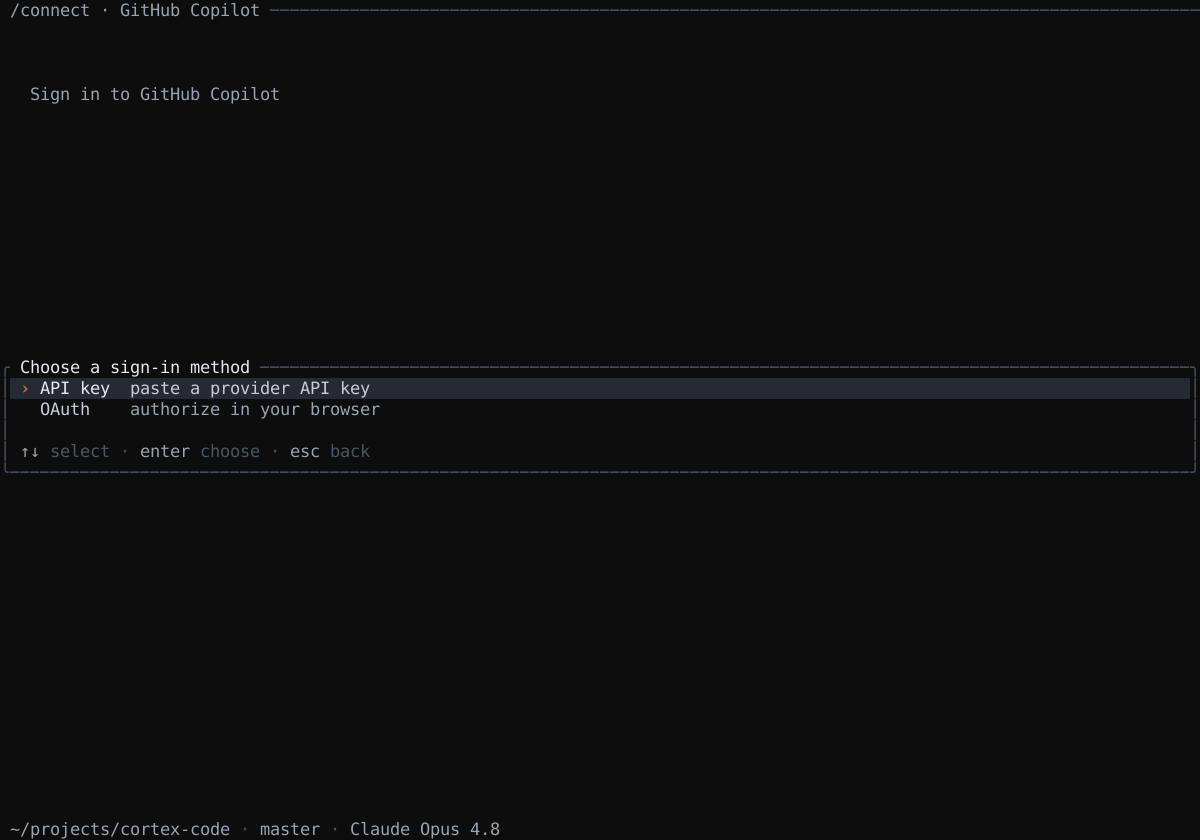
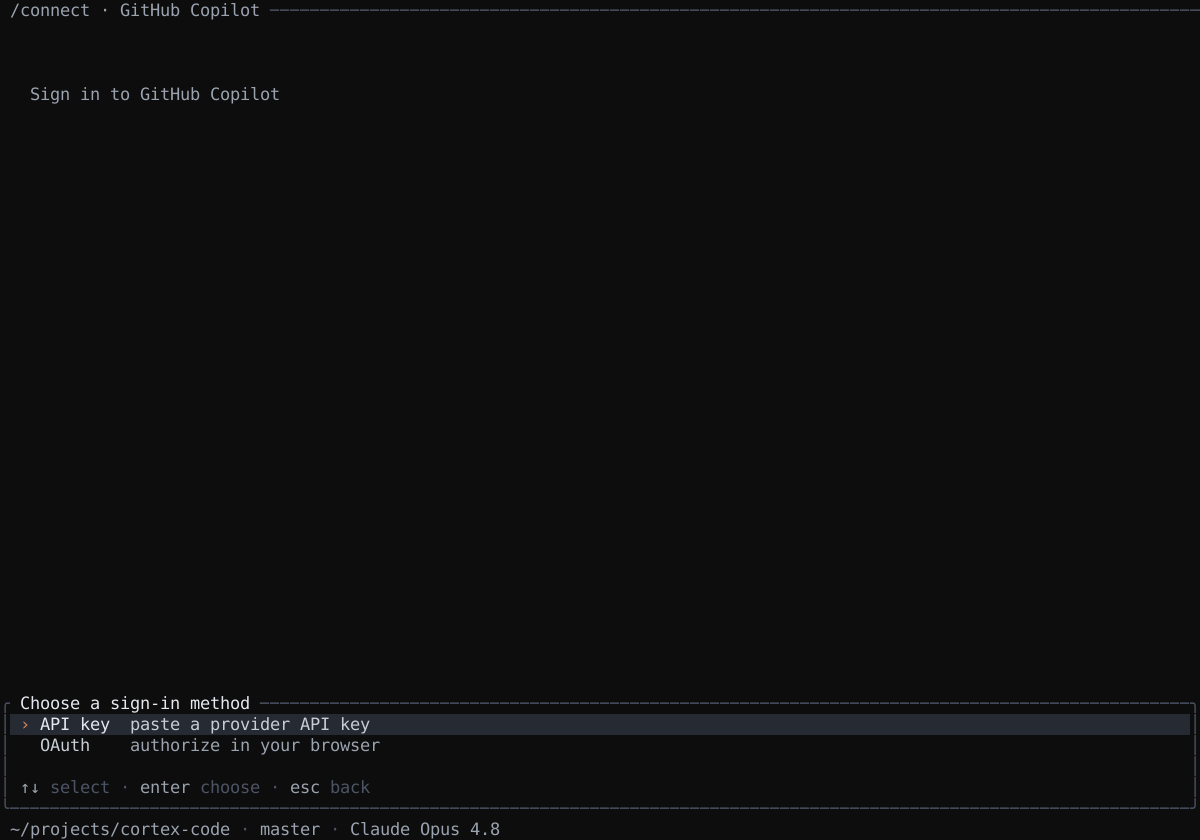
fix(mockups-v2): dock auth action cards

diff --git a/tools-throwaway/mockup-harness/src/chrome.rs b/tools-throwaway/mockup-harness/src/chrome.rs
@@ -1820,6 +1820,34 @@ pub fn cli_view(f: &mut Frame, title: &str, status: &StatusLine) -> Rect {
     rows[2]
 }
 
+/// Header-aware action frame for full-screen decision flows. It retains the
+/// standard top header and returns the remaining body plus a bottom-anchored
+/// dock. The dock ends immediately above the final statusline, so callers
+/// render their sole `card()` directly into it rather than positioning a
+/// floating panel inside the body.
+pub fn cli_action_view(
+    f: &mut Frame,
+    title: &str,
+    dock_h: u16,
+    status: &StatusLine,
+) -> (Rect, Rect) {
+    let area = f.area();
+    f.render_widget(Block::default().style(Style::default().bg(CANVAS)), area);
+    let rows = Layout::default()
+        .direction(Direction::Vertical)
+        .constraints([
+            Constraint::Length(1),      // header rule
+            Constraint::Length(1),      // spacer
+            Constraint::Min(0),         // top-aligned identity or breadcrumb body
+            Constraint::Length(dock_h), // bottom action dock
+            Constraint::Length(1),      // statusline
+        ])
+        .split(area);
+    rule_head(f, rows[0], title);
+    statusbar(f, rows[4], status);
+    (rows[2], rows[3])
+}
+
 /// Dock frame: the composer slot is REPLACED by an action dock `dock_h` rows
 /// tall (rule F-5 / N-7: decisions and pickers anchor where the user would
 /// type, never a floating centered modal). Returns `(transcript, dock)`;

diff --git a/tools-throwaway/mockup-harness/src/screens/connect_oauth.rs b/tools-throwaway/mockup-harness/src/screens/connect_oauth.rs
@@ -11,7 +11,7 @@ use crate::chrome::{self, BRIGHT, FAINT, MUTED, StatusLine, c, cb, dot, m, t};
 
 pub fn render(f: &mut Frame) {
     let status = StatusLine::default();
-    let body = chrome::cli_view(f, "/connect · GitHub Copilot", &status);
+    let (body, dock) = chrome::cli_action_view(f, "/connect · GitHub Copilot", 16, &status);
 
     f.render_widget(
         Paragraph::new(Line::from(vec![
@@ -21,10 +21,9 @@ pub fn render(f: &mut Frame) {
         Rect::new(body.x, body.y + 3, body.width, 1),
     );
 
-    let card_area = Rect::new(body.x, body.y + 8, body.width, 16);
     let inner = chrome::card(
         f,
-        card_area,
+        dock,
         "Authorize device",
         &[("o", "open"), ("y", "copy code"), ("esc", "cancel")],
     );

diff --git a/tools-throwaway/mockup-harness/src/screens/connect_apikey.rs b/tools-throwaway/mockup-harness/src/screens/connect_apikey.rs
@@ -11,7 +11,7 @@ use crate::chrome::{self, ACCENT, FAINT, MUTED, StatusLine, TXT, c, dot, m, t};
 
 pub fn render(f: &mut Frame) {
     let status = StatusLine::default();
-    let body = chrome::cli_view(f, "/connect · Anthropic", &status);
+    let (body, dock) = chrome::cli_action_view(f, "/connect · Anthropic", 13, &status);
 
     f.render_widget(
         Paragraph::new(Line::from(vec![
@@ -21,10 +21,9 @@ pub fn render(f: &mut Frame) {
         Rect::new(body.x, body.y + 3, body.width, 1),
     );
 
-    let card_area = Rect::new(body.x, body.y + 9, body.width, 13);
     let inner = chrome::card(
         f,
-        card_area,
+        dock,
         "Add API key",
         &[
             ("ctrl+v", "paste key from clipboard"),

diff --git a/tools-throwaway/mockup-harness/src/screens/connect_method.rs b/tools-throwaway/mockup-harness/src/screens/connect_method.rs
@@ -16,7 +16,7 @@ const METHODS: &[(&str, &str, &str)] = &[
 
 pub fn render(f: &mut Frame) {
     let status = StatusLine::default();
-    let body = chrome::cli_view(f, "/connect · GitHub Copilot", &status);
+    let (body, dock) = chrome::cli_action_view(f, "/connect · GitHub Copilot", 6, &status);
 
     f.render_widget(
         Paragraph::new(Line::from(vec![
@@ -26,10 +26,9 @@ pub fn render(f: &mut Frame) {
         Rect::new(body.x, body.y + 2, body.width, 1),
     );
 
-    let card_area = Rect::new(body.x, body.y + 15, body.width, 6);
     let inner = chrome::card(
         f,
-        card_area,
+        dock,
         "Choose a sign-in method",
         &[("↑↓", "select"), ("enter", "choose"), ("esc", "back")],
     );

diff --git a/tools-throwaway/mockup-harness/src/screens/connect_disconnect.rs b/tools-throwaway/mockup-harness/src/screens/connect_disconnect.rs
@@ -11,7 +11,7 @@ use crate::chrome::{self, StatusLine, m, t};
 
 pub fn render(f: &mut Frame) {
     let status = StatusLine::default();
-    let body = chrome::cli_view(f, "/connect · Anthropic", &status);
+    let (body, dock) = chrome::cli_action_view(f, "/connect · Anthropic", 13, &status);
 
     f.render_widget(
         Paragraph::new(Line::from(vec![
@@ -21,10 +21,9 @@ pub fn render(f: &mut Frame) {
         Rect::new(body.x, body.y + 4, body.width, 1),
     );
 
-    let card_area = Rect::new(body.x, body.y + 12, body.width, 13);
     let inner = chrome::card(
         f,
-        card_area,
+        dock,
         "Disconnect provider",
         &[("esc", "cancel, keep connected"), ("enter", "disconnect")],
     );

diff --git a/tools-throwaway/mockup-harness/src/screens/connect_connected.rs b/tools-throwaway/mockup-harness/src/screens/connect_connected.rs
@@ -11,7 +11,7 @@ use crate::chrome::{self, OK, StatusLine, c, m};
 
 pub fn render(f: &mut Frame) {
     let status = StatusLine::default();
-    let body = chrome::cli_view(f, "/connect · Anthropic", &status);
+    let (body, dock) = chrome::cli_action_view(f, "/connect · Anthropic", 10, &status);
 
     f.render_widget(
         Paragraph::new(Line::from(vec![
@@ -21,10 +21,9 @@ pub fn render(f: &mut Frame) {
         Rect::new(body.x, body.y + 4, body.width, 1),
     );
 
-    let card_area = Rect::new(body.x, body.y + 12, body.width, 10);
     let inner = chrome::card(
         f,
-        card_area,
+        dock,
         "Connected",
         &[("enter", "done, return to chat"), ("esc", "close")],
     );

diff --git a/tools-throwaway/mockup-harness/src/screens/connect_provider.rs b/tools-throwaway/mockup-harness/src/screens/connect_provider.rs
@@ -50,7 +50,7 @@ const PROVIDERS: &[ConnectionListRow] = &[
 
 pub fn render(f: &mut Frame) {
     let status = StatusLine::default();
-    let body = chrome::cli_view(f, "/connect · choose a provider", &status);
+    let (body, dock) = chrome::cli_action_view(f, "/connect · choose a provider", 10, &status);
 
     f.render_widget(
         Paragraph::new(Line::from(vec![
@@ -60,10 +60,9 @@ pub fn render(f: &mut Frame) {
         Rect::new(body.x, body.y + 2, body.width, 1),
     );
 
-    let card_area = Rect::new(body.x, body.y + 8, body.width, 10);
     let inner = chrome::card(
         f,
-        card_area,
+        dock,
         "Connect a provider",
         &[
             ("↑↓", "select"),

diff --git a/tools-throwaway/mockup-harness/src/screens/login.rs b/tools-throwaway/mockup-harness/src/screens/login.rs
@@ -31,7 +31,7 @@ const SIGN_IN_OPTIONS: &[ListRow] = &[
 
 pub fn render(f: &mut Frame) {
     let status = StatusLine::default();
-    let body = chrome::cli_view(f, "sign in", &status);
+    let (body, dock) = chrome::cli_action_view(f, "sign in", 11, &status);
 
     f.render_widget(
         Paragraph::new(chrome::wordmark("v0.3.0")),
@@ -45,10 +45,9 @@ pub fn render(f: &mut Frame) {
         Rect::new(body.x, body.y + 4, body.width, 1),
     );
 
-    let card_area = Rect::new(body.x, body.y + 10, body.width, 11);
     let inner = chrome::card(
         f,
-        card_area,
+        dock,
         "Sign in",
         &[("enter", "continue"), ("↑↓", "move"), ("esc", "quit")],
     );

diff --git a/tools-throwaway/mockup-harness/sweep_audit.py b/tools-throwaway/mockup-harness/sweep_audit.py
@@ -179,7 +179,6 @@ LIVE_ACTIVITY_CONSUMERS: dict[str, dict[str, Any]] = {
 # to a concrete rendered line and allowed placement. New rows therefore fail
 # closed with a file, line, and role diagnostic.
 KEY_LINE_ROLES: dict[str, dict[int, str]] = {
-    "auth/connect-oauth": {16: "card", 25: "card"},
     "orchestration/concurrency-metrics": {3: "view_header", 24: "activity_attached"},
     "orchestration/intent-scorer-fail": {3: "view_header"},
     "orchestration/intent-scorer-pass": {3: "view_header"},
